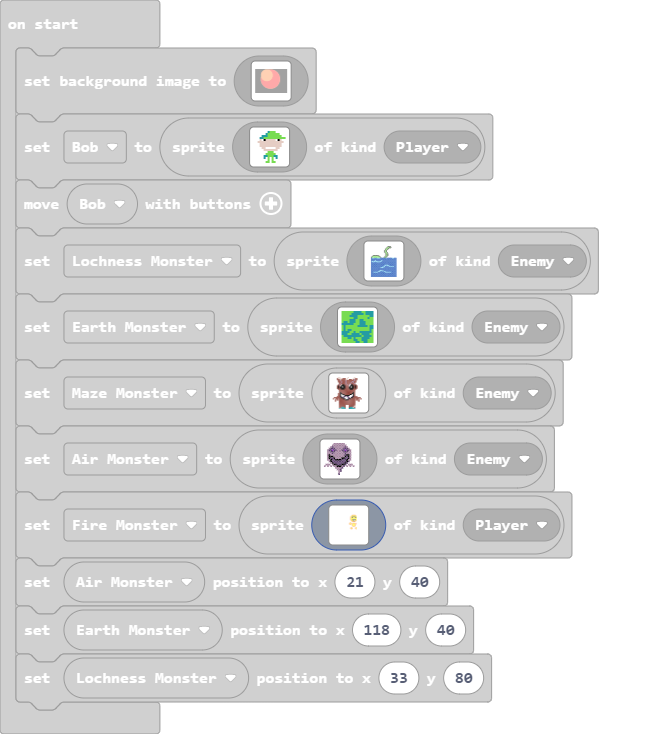
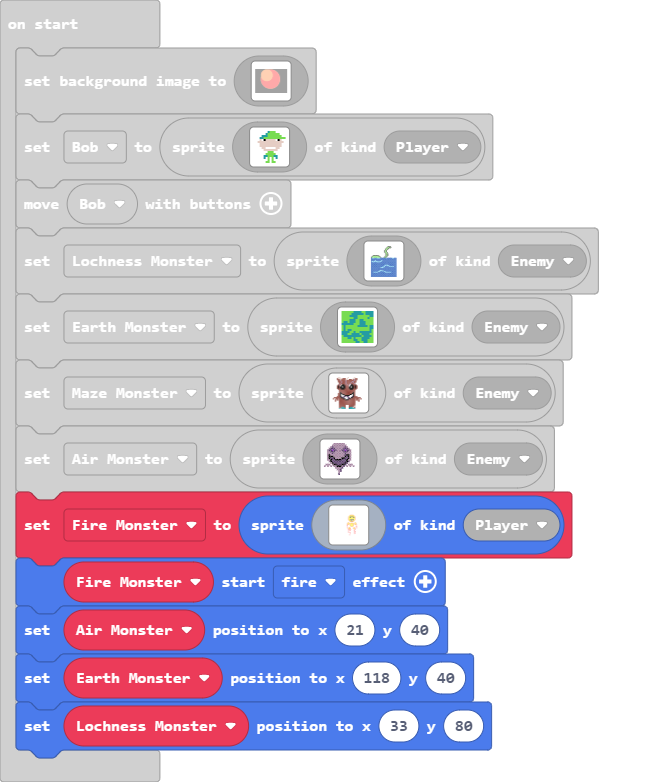
Update main.blocks, main.ts

diff --git a/main.ts b/main.ts
@@ -264,67 +264,68 @@ let Air_Monster = sprites.create(img`
     .........c..........
     `, SpriteKind.Enemy)
 let Fire_Monster = sprites.create(img`
-    ..............................
-    ..............................
-    ..............................
-    ..............................
-    ..............................
-    ..............................
-    ..............................
-    ..............................
-    ..............................
-    ..............................
-    ..............................
-    .....................4444444..
-    ....................455555554.
-    ...................45ff555ff54
-    ..................45555f5f5555
-    ..................455ff5555ff5
-    ..................455ff5555ff5
-    ..................455555555555
-    ..................455555555555
-    ..................4555ffffff55
-    ..................4555f1111f55
-    ...................4555f11f554
-    ....................4555ff554.
-    .....................4444444..
-    ..............................
-    .................44...........
-    ................4554..44444..4
-    ................4554.4555554.4
-    ................4554.4555554.4
-    .................44..4555554..
-    .....................4555554..
-    .....................4555554..
-    ......................44444...
-    ..............................
-    ...................44.......44
-    ..................4554.....455
-    ..................4554.....455
-    ...................44.......44
-    ..............................
-    ..............................
-    ..............................
-    ..............................
-    ..............................
-    ..............................
-    ..............................
-    ..............................
-    ..............................
-    ..............................
-    ..............................
-    ..............................
-    ..............................
-    ..............................
-    ..............................
-    ..............................
-    ..............................
-    ..............................
-    ..............................
-    ..............................
-    ..............................
-    ..............................
+    ....................................
+    ....................................
+    ....................................
+    ....................................
+    ....................................
+    ....................................
+    ....................................
+    ....................................
+    ....................................
+    ....................................
+    ....................................
+    .....................4444444........
+    ....................455555554.......
+    ...................45ff555ff54......
+    ..................45555f5f55554.....
+    ..................455ff5555ff54.....
+    ..................455ff5555ff54.....
+    ..................4555555555554.....
+    ..................4555555555554.....
+    ..................4555ffffff554.....
+    ..................4555f1111f554.....
+    ...................4555f11f554......
+    ....................4555ff554.......
+    .....................4444444........
+    ....................................
+    .................44...........44....
+    ................4554..44444..4554...
+    ................4554.4555554.4554...
+    ................4554.4555554.4554...
+    ...............2.44..4555554..44.2..
+    ...............2.....4555554........
+    ...............2.....4555554.....2..
+    ......................44444......2..
+    ...............2.................2..
+    ...................44.......44......
+    ...............2..4554.....4554..2..
+    ..................4554.....4554.....
+    ..................2442......442.....
+    ..................2.2.2.......2.....
+    .............................2......
+    ..................2.22.......2......
+    ..............................2.....
+    ..................2..........22.....
+    ..................2..2..............
+    ....................2........22.....
+    ..............................2.....
+    .....................2.......2......
+    ....................................
+    ....................2...............
+    ....................................
+    ....................................
+    ....................................
+    ....................................
+    ....................................
+    ....................................
+    ....................................
+    ....................................
+    ....................................
+    ....................................
+    ....................................
     `, SpriteKind.Player)
+Fire_Monster.startEffect(effects.fire)
 Air_Monster.setPosition(21, 40)
 Earth_Monster.setPosition(118, 40)
 Lochness_Monster.setPosition(33, 80)
